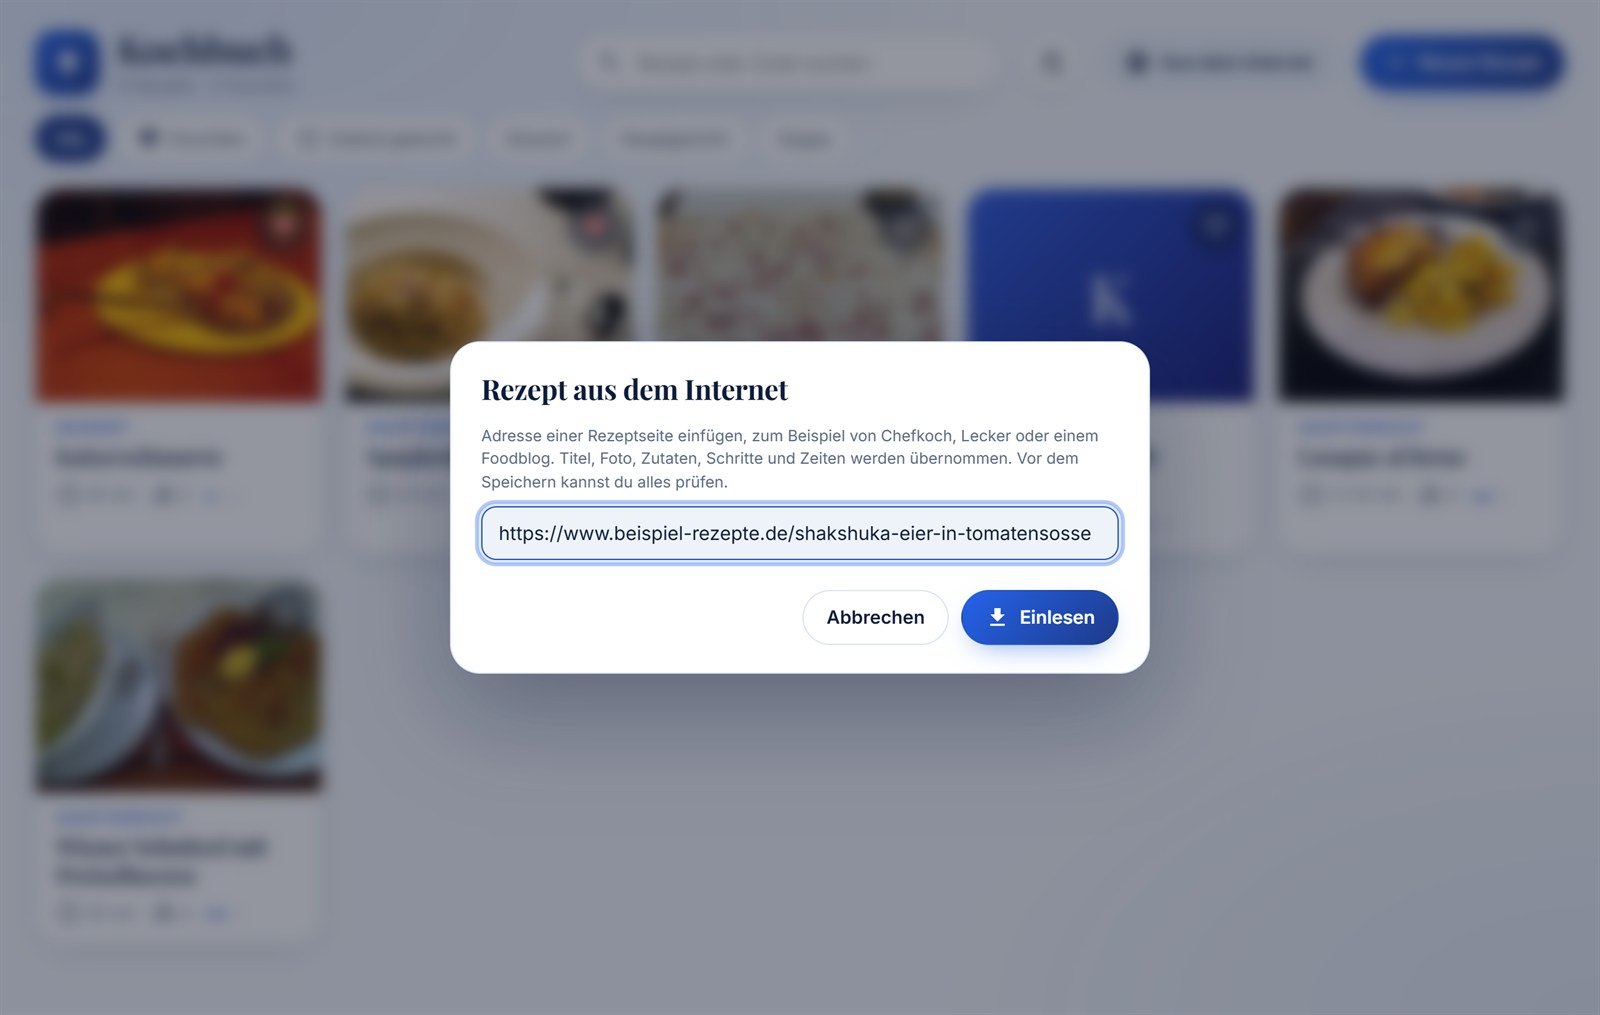
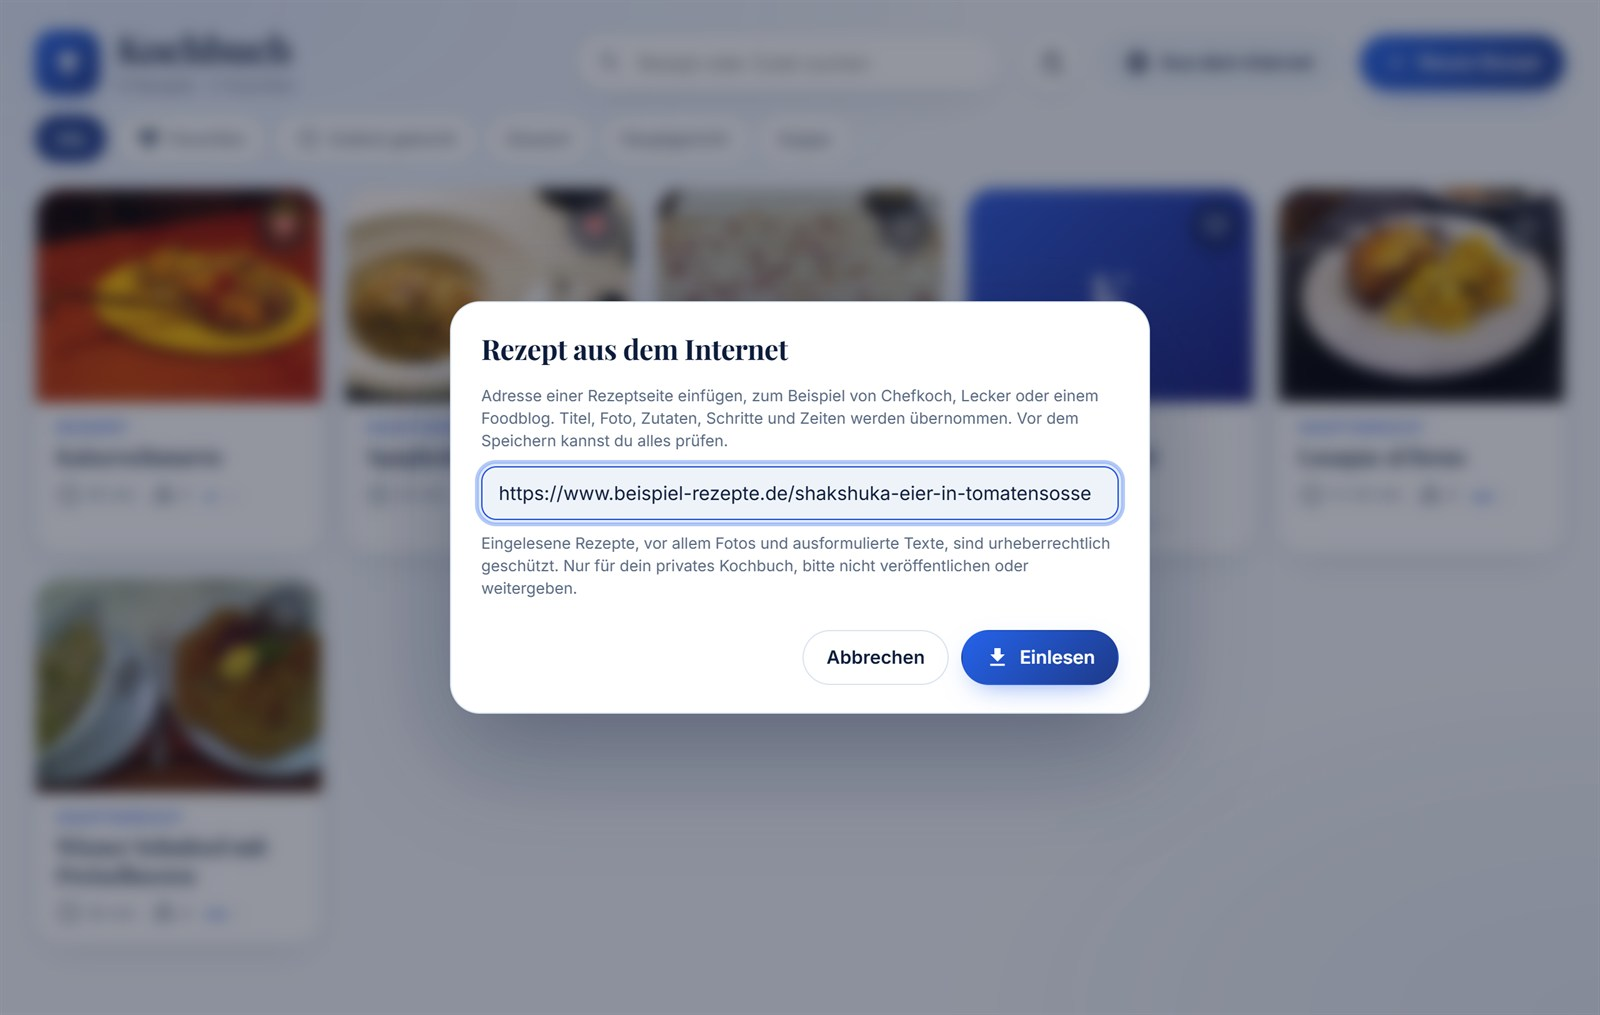
0.5.2: Hinweis zum Urheberrecht beim Rezeptimport
Import-Fenster und README sagen jetzt, dass eingelesene Rezepte (vor
allem Fotos und ausformulierte Texte) urheberrechtlich geschützt und nur
für das private Kochbuch gedacht sind. Screenshot des Import-Fensters
erneuert.

Changed region(s): [[0.2812, 0.2749, 0.7188, 0.7025]]

diff --git a/kochbuch-card.js b/kochbuch-card.js
@@ -1,9 +1,9 @@
-/* kochbuch-card v0.5.1 – eigenes Kochbuch für Home Assistant: Rezepte schreiben und bebildern, Kochmodus mit Timern, Zutaten auf die Einkaufsliste,
+/* kochbuch-card v0.5.2 – eigenes Kochbuch für Home Assistant: Rezepte schreiben und bebildern, Kochmodus mit Timern, Zutaten auf die Einkaufsliste,
    Rezepte aus dem Internet einlesen (schema.org-Rezeptdaten der Seite).
    Rezepte liegen in einem eigenen Dashboard (store), Bilder im Bilderspeicher von Home Assistant (image_upload).
    Seitenabruf über rest_command.kochbuch_abruf, sonst über einen öffentlichen Abrufdienst. */
 (() => {
-  const VERSION = '0.5.1';
+  const VERSION = '0.5.2';
   // Öffentliche Abrufdienste, nur als Notlösung ohne rest_command (oft überlastet)
   const PROXIES = ['https://api.allorigins.win/raw?url=', 'https://api.codetabs.com/v1/proxy?quest='];
   const esc = (s) => String(s == null ? '' : s).replace(/[&<>"']/g, (c) => ({ '&': '&amp;', '<': '&lt;', '>': '&gt;', '"': '&quot;', "'": '&#39;' }[c]));
@@ -1136,6 +1136,7 @@ a.tag{text-decoration:none;color:var(--acc)}
         <p class="hint" style="margin:0 0 10px">Adresse einer Rezeptseite einfügen, zum Beispiel von Chefkoch, Lecker oder einem Foodblog. Titel, Foto, Zutaten, Schritte und Zeiten werden übernommen. Vor dem Speichern kannst du alles prüfen.</p>
         <input class="in weburl" type="url" inputmode="url" placeholder="https://…" value="${esc(url || '')}"${busy ? ' disabled' : ''}>
         ${err ? `<p class="werr">${esc(err)}</p>` : ''}
+        <p class="hint" style="margin:10px 0 0">Eingelesene Rezepte, vor allem Fotos und ausformulierte Texte, sind urheberrechtlich geschützt. Nur für dein privates Kochbuch, bitte nicht veröffentlichen oder weitergeben.</p>
         ${this._viaHa() ? '' : '<p class="hint" style="margin:10px 0 0">Noch nicht eingerichtet: Ohne <code>rest_command.kochbuch_abruf</code> in Home Assistant wird die Seite über öffentliche Dienste abgerufen, und die sind oft überlastet.</p>'}
         </div><div class="df"><button class="btn ghost" data-act="mclose">Abbrechen</button>
         <button class="btn pri${busy ? ' spin' : ''}" data-act="webok"${busy ? ' disabled' : ''}><ha-icon icon="mdi:${busy ? 'loading' : 'download'}"></ha-icon>${busy ? 'Lese ein …' : 'Einlesen'}</button></div></div>`);

diff --git a/README.md b/README.md
@@ -57,7 +57,7 @@ HACS → ⋮ → *Benutzerdefinierte Repositories* → `https://github.com/msuci
 ### Manuell
 
 1. `kochbuch-card.js` nach `/config/www/kochbuch-card.js` kopieren (zum Beispiel mit der App *File editor* oder per Samba).
-2. Einstellungen → Dashboards → ⋮ → *Ressourcen* → *Ressource hinzufügen*: URL `/local/kochbuch-card.js?v=0.5.1`, Typ *JavaScript-Modul*.
+2. Einstellungen → Dashboards → ⋮ → *Ressourcen* → *Ressource hinzufügen*: URL `/local/kochbuch-card.js?v=0.5.2`, Typ *JavaScript-Modul*.
 3. Browser hart neu laden (Strg + Umschalt + R) bzw. in der Companion-App den Frontend-Cache zurücksetzen.
 
 Bei jedem Update die Zahl hinter `?v=` erhöhen, damit Browser und App die neue Datei laden.
@@ -113,6 +113,12 @@ Danach unter Entwicklerwerkzeuge → YAML die Konfiguration prüfen und *REST-Be
 Ohne diesen Dienst versucht die Karte öffentliche Abrufdienste (allorigins.win, codetabs.com). Die sind oft überlastet und bekommen die Adresse des Rezepts zu sehen, sie sind also nur eine Notlösung.
 
 Hinweis: Mit dem Dienst kann jedes Konto in Home Assistant eine beliebige Adresse über Home Assistant abrufen lassen.
+
+### Urheberrecht
+
+Eingelesene Rezepte, vor allem **Fotos** und ausformulierte Texte, sind urheberrechtlich geschützt. Zutatenlisten und das Gericht selbst sind es in der Regel nicht. Die Funktion ist für **dein privates Kochbuch** gedacht, vergleichbar mit Ausdrucken oder Abspeichern der Seite. Veröffentliche eingelesene Rezepte nicht und gib sie nicht weiter. Die Karte speichert die Quelle mit und verlinkt im Rezept auf das Original. Das Import-Fenster zeigt denselben Hinweis.
+
+Das ist keine Rechtsberatung.
 
 ## Sprachsteuerung mit Alexa
 

diff --git a/CHANGELOG.md b/CHANGELOG.md
@@ -1,5 +1,9 @@
 # Änderungen
 
+## 0.5.2 (2026-10-27)
+
+- Import-Fenster und README weisen darauf hin, dass eingelesene Rezepte (vor allem Fotos und Texte) urheberrechtlich geschützt und nur für das private Kochbuch gedacht sind.
+
 ## 0.5.1 (2026-10-27)
 
 - **Handy:** Kopfzeile der Startseite passt wieder in eine Zeile. Seit 0.5.0 rutschte der „+“-Knopf neben dem neuen Globus-Knopf in eine eigene Zeile. Die Knöpfe sind jetzt runde Symbolknöpfe, die Unterzeile wird bei Platzmangel gekürzt.
